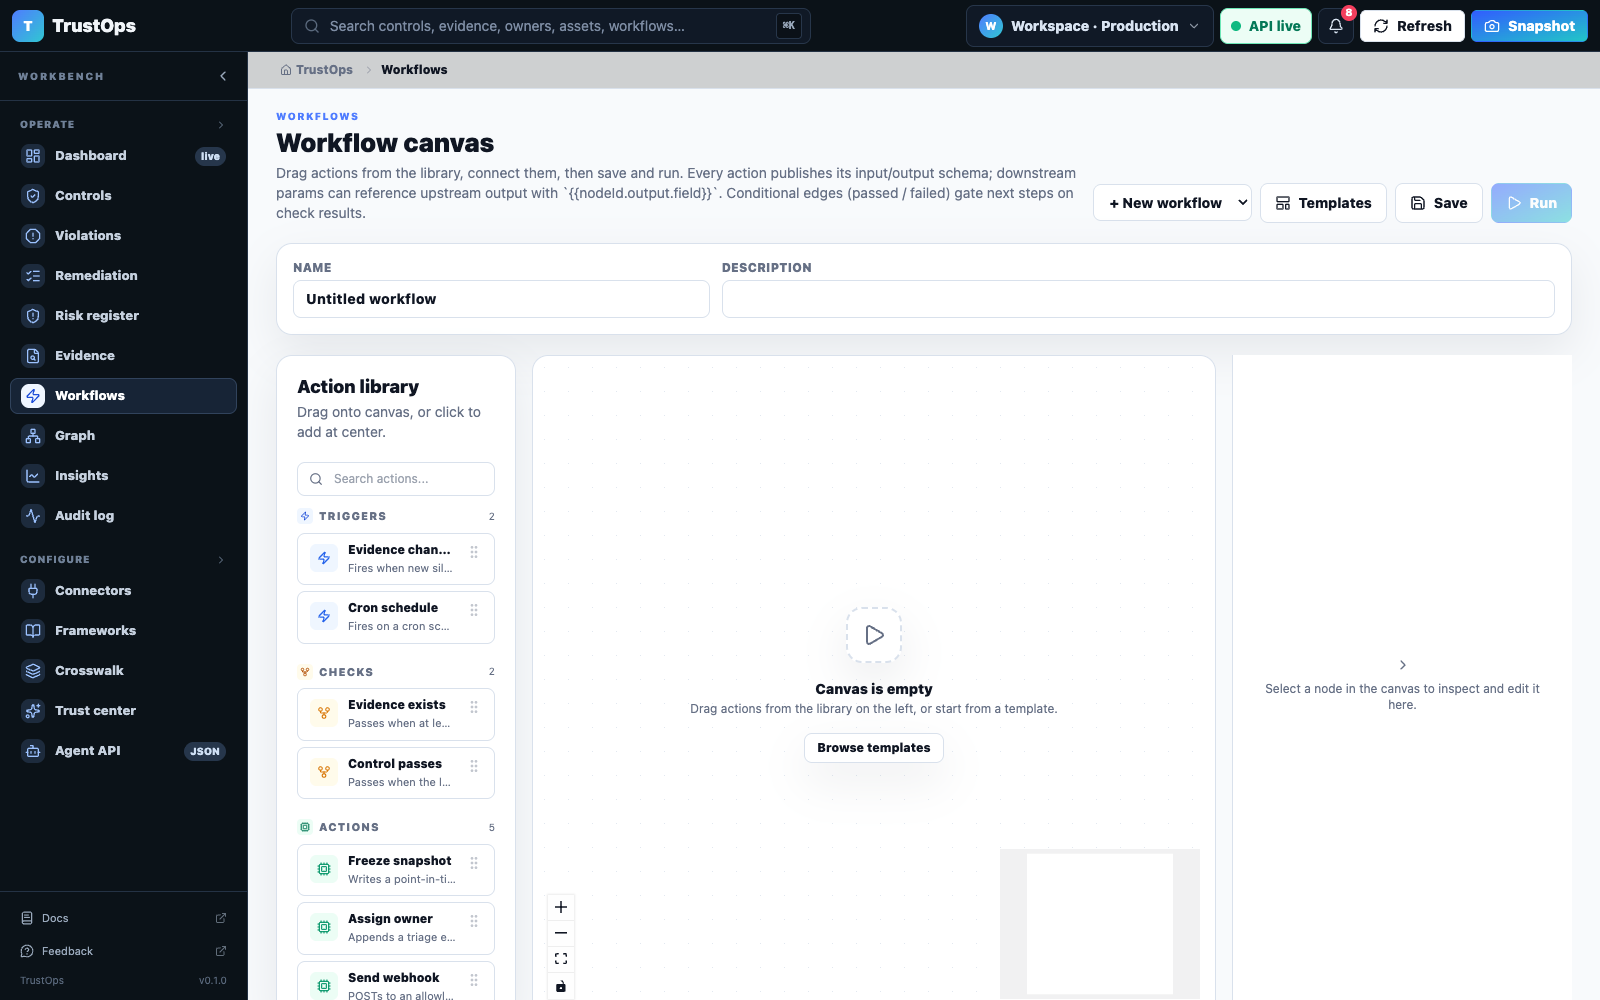
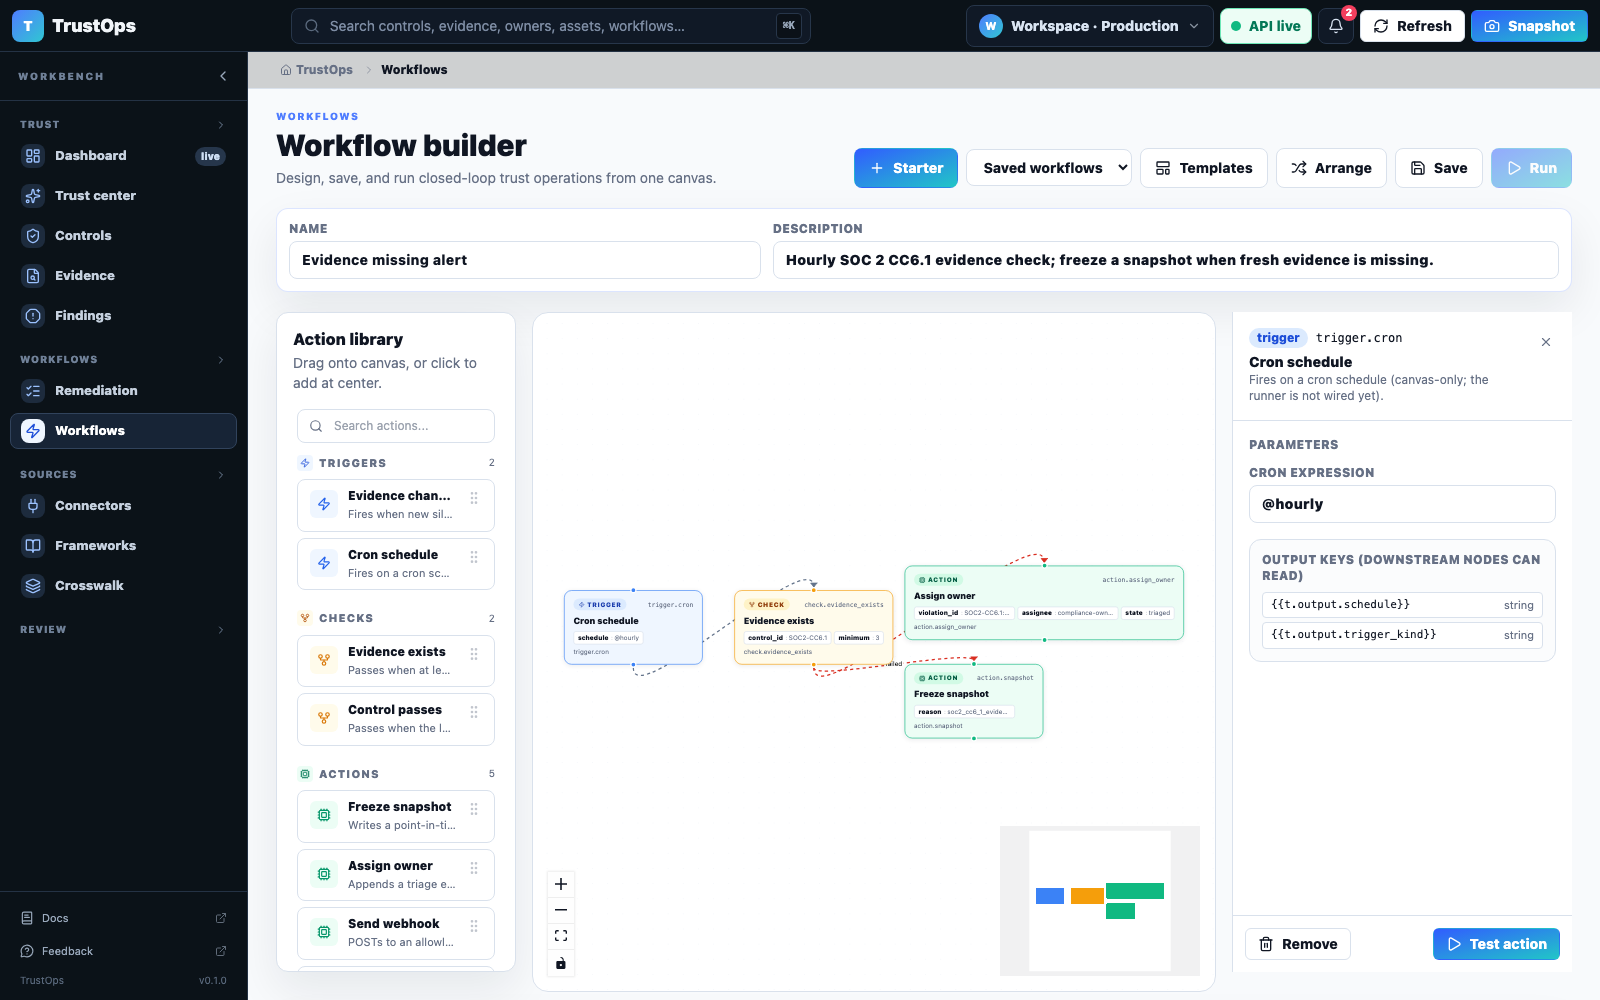
feat(workflows): open populated automation canvas (#224)

diff --git a/app/web/src/app/automation/page.tsx b/app/web/src/app/automation/page.tsx
@@ -72,6 +72,21 @@ function emptyEditor(): Editor {
   };
 }
 
+const STARTER_TEMPLATE =
+  WORKFLOW_TEMPLATES.find(
+    (template) => template.id === "evidence-missing-alert",
+  ) ?? WORKFLOW_TEMPLATES[0];
+
+function starterEditor(catalog: ActionSpec[] = []): Editor {
+  return STARTER_TEMPLATE
+    ? fromTemplate(STARTER_TEMPLATE, catalog)
+    : emptyEditor();
+}
+
+function firstNodeId(editor: Editor): string | null {
+  return editor.nodes[0]?.id ?? null;
+}
+
 function edgeTone(condition: WorkflowCondition) {
   if (condition === "passed") return "#16b364";
   if (condition === "failed") return "#d92d20";
@@ -281,8 +296,10 @@ export default function AutomationPage() {
   const save = useSaveWorkflow();
   const run = useRunWorkflow();
   const [activeId, setActiveId] = useState<string>(NEW_WORKFLOW_ID);
-  const [editor, setEditor] = useState<Editor>(emptyEditor);
-  const [selectedNode, setSelectedNode] = useState<string | null>(null);
+  const [editor, setEditor] = useState<Editor>(() => starterEditor());
+  const [selectedNode, setSelectedNode] = useState<string | null>(() =>
+    firstNodeId(starterEditor()),
+  );
   const [templatesOpen, setTemplatesOpen] = useState(false);
   const [lastRun, setLastRun] = useState<WorkflowRun | null>(null);
   const [starterLoaded, setStarterLoaded] = useState(false);
@@ -296,22 +313,25 @@ export default function AutomationPage() {
     if (activeId === NEW_WORKFLOW_ID) return;
     const w = (workflows.data ?? []).find((x) => x.workflow_id === activeId);
     if (w) {
-      setEditor(fromWorkflow(w, catalog.data ?? []));
+      const next = fromWorkflow(w, catalog.data ?? []);
+      setEditor(next);
+      setSelectedNode(firstNodeId(next));
       setLastRun(null);
     }
   }, [activeId, workflows.data, catalog.data]);
 
   useEffect(() => {
-    if (starterLoaded || (catalog.data ?? []).length === 0) return;
+    if (starterLoaded) return;
     const firstWorkflow = (workflows.data ?? [])[0];
     if (firstWorkflow) {
       setActiveId(firstWorkflow.workflow_id);
       setStarterLoaded(true);
       return;
     }
-    const starter = WORKFLOW_TEMPLATES[0];
-    if (starter) {
-      setEditor(fromTemplate(starter, catalog.data ?? []));
+    if (STARTER_TEMPLATE) {
+      const next = starterEditor(catalog.data ?? []);
+      setEditor(next);
+      setSelectedNode(firstNodeId(next));
       setStarterLoaded(true);
     }
   }, [catalog.data, workflows.data, starterLoaded]);
@@ -382,21 +402,23 @@ export default function AutomationPage() {
   }, []);
 
   const loadTemplate = (template: WorkflowTemplate) => {
-    setEditor(fromTemplate(template, catalog.data ?? []));
+    const next = fromTemplate(template, catalog.data ?? []);
+    setEditor(next);
     setActiveId(NEW_WORKFLOW_ID);
     setStarterLoaded(true);
     setLastRun(null);
-    setSelectedNode(null);
+    setSelectedNode(firstNodeId(next));
     flash(`Loaded "${template.name}" — save to persist.`);
   };
 
   const startNewWorkflow = () => {
+    const next = starterEditor(catalog.data ?? []);
     setActiveId(NEW_WORKFLOW_ID);
-    setEditor(emptyEditor());
+    setEditor(next);
     setStarterLoaded(true);
     setLastRun(null);
-    setSelectedNode(null);
-    flash("New blank workflow opened.");
+    setSelectedNode(firstNodeId(next));
+    flash("Starter workflow opened.");
   };
 
   const persist = async () => {
@@ -459,7 +481,7 @@ export default function AutomationPage() {
         actions={
           <div className="flex min-w-0 flex-wrap items-center gap-2">
             <Button variant="primary" onClick={startNewWorkflow}>
-              <Plus className="h-4 w-4" /> New
+              <Plus className="h-4 w-4" /> Starter
             </Button>
             <select
               value={activeId === NEW_WORKFLOW_ID ? "" : activeId}

diff --git a/app/web/src/components/workflow/WorkflowCanvas.tsx b/app/web/src/components/workflow/WorkflowCanvas.tsx
@@ -216,6 +216,20 @@ function NodeCard({ data, selected }: NodeProps<FlowNode>) {
 
 const nodeTypes: NodeTypes = { trustops: NodeCard };
 
+function inferKind(nodeType: string): NodeData["kind"] {
+  if (nodeType.startsWith("trigger.")) return "trigger";
+  if (nodeType.startsWith("check.")) return "check";
+  return "action";
+}
+
+function fallbackLabel(nodeType: string): string {
+  const [, name = nodeType] = nodeType.split(".");
+  return name
+    .split("_")
+    .map((part) => part.charAt(0).toUpperCase() + part.slice(1))
+    .join(" ");
+}
+
 // ---------------------------------------------------------------------------
 // Empty / onboarding state overlay
 // ---------------------------------------------------------------------------
@@ -227,10 +241,12 @@ function EmptyCanvas({ onOpenTemplates }: { onOpenTemplates?: () => void }) {
         <Play className="h-6 w-6 text-muted" />
       </div>
       <div>
-        <div className="text-sm font-black text-ink">Canvas is empty</div>
+        <div className="text-sm font-black text-ink">
+          Start from a workflow template
+        </div>
         <div className="mt-0.5 text-xs text-muted">
-          Start from a template or add the first trigger, then connect checks
-          and actions into a runnable path.
+          Load a proven trigger, check, and action path before saving a new
+          automation.
         </div>
       </div>
       {onOpenTemplates && (
@@ -322,13 +338,14 @@ export function toFlowNode(
   node: WorkflowNode,
   action: ActionSpec | undefined,
 ): FlowNode {
+  const fallbackKind = inferKind(node.node_type);
   return {
     id: node.id,
     type: "trustops",
     position: node.position ?? { x: 0, y: 0 },
     data: {
-      label: action?.label ?? node.node_type,
-      kind: (action?.kind ?? "action") as NodeData["kind"],
+      label: action?.label ?? fallbackLabel(node.node_type),
+      kind: (action?.kind ?? fallbackKind) as NodeData["kind"],
       node_type: node.node_type,
       params: node.params ?? {},
     },
@@ -439,8 +456,14 @@ export function WorkflowCanvas({
       ...node,
       data: {
         ...node.data,
-        kind: byType.get(node.data.node_type)?.kind ?? node.data.kind,
-        label: byType.get(node.data.node_type)?.label ?? node.data.label,
+        kind:
+          byType.get(node.data.node_type)?.kind ??
+          node.data.kind ??
+          inferKind(node.data.node_type),
+        label:
+          byType.get(node.data.node_type)?.label ??
+          node.data.label ??
+          fallbackLabel(node.data.node_type),
       },
     }));
   }, [nodes, catalog]);

diff --git a/app/web/src/lib/workflow/templates.ts b/app/web/src/lib/workflow/templates.ts
@@ -98,20 +98,38 @@ export const WORKFLOW_TEMPLATES: WorkflowTemplate[] = [
     id: "evidence-missing-alert",
     name: "Evidence missing alert",
     description:
-      "Hourly cron checks whether SOC 2 CC6.1 has at least 3 fresh evidence records. If not, freeze a snapshot reason=evidence_gap so the gap shows in the audit trail.",
+      "Hourly SOC 2 CC6.1 evidence check; freeze a snapshot when fresh evidence is missing.",
     tags: ["scheduled", "alert"],
     nodes: [
-      node("t", "trigger.cron", { schedule: "@hourly" }, 120, 140),
+      node("t", "trigger.cron", { schedule: "@hourly" }, 90, 220),
       node(
         "c",
         "check.evidence_exists",
         { control_id: "SOC2-CC6.1", minimum: 3 },
-        340,
-        140,
+        350,
+        220,
       ),
-      node("s", "action.snapshot", { reason: "evidence_gap" }, 560, 140),
+      node(
+        "a",
+        "action.assign_owner",
+        {
+          violation_id: "SOC2-CC6.1:evidence_gap",
+          assignee: "compliance-owner",
+          state: "triaged",
+          note: "Evidence gap from {{c.output.matched_count}} records; minimum {{c.output.minimum}} required.",
+        },
+        640,
+        120,
+      ),
+      node(
+        "s",
+        "action.snapshot",
+        { reason: "soc2_cc6_1_evidence_gap" },
+        640,
+        310,
+      ),
     ],
-    edges: [edge("t", "c"), edge("c", "s", "failed")],
+    edges: [edge("t", "c"), edge("c", "a", "failed"), edge("c", "s", "failed")],
   },
   {
     id: "framework-readiness-drift",
